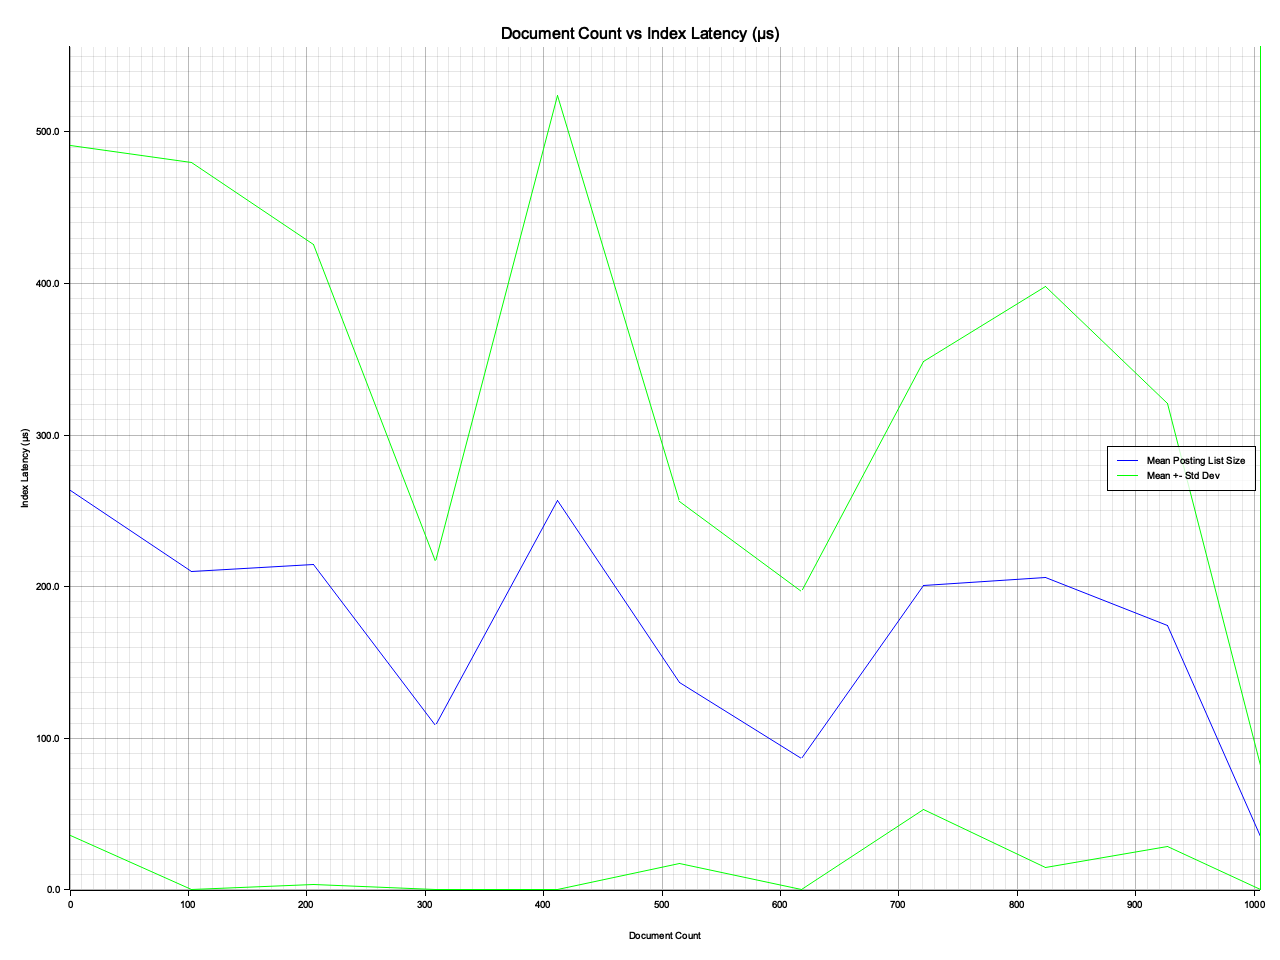
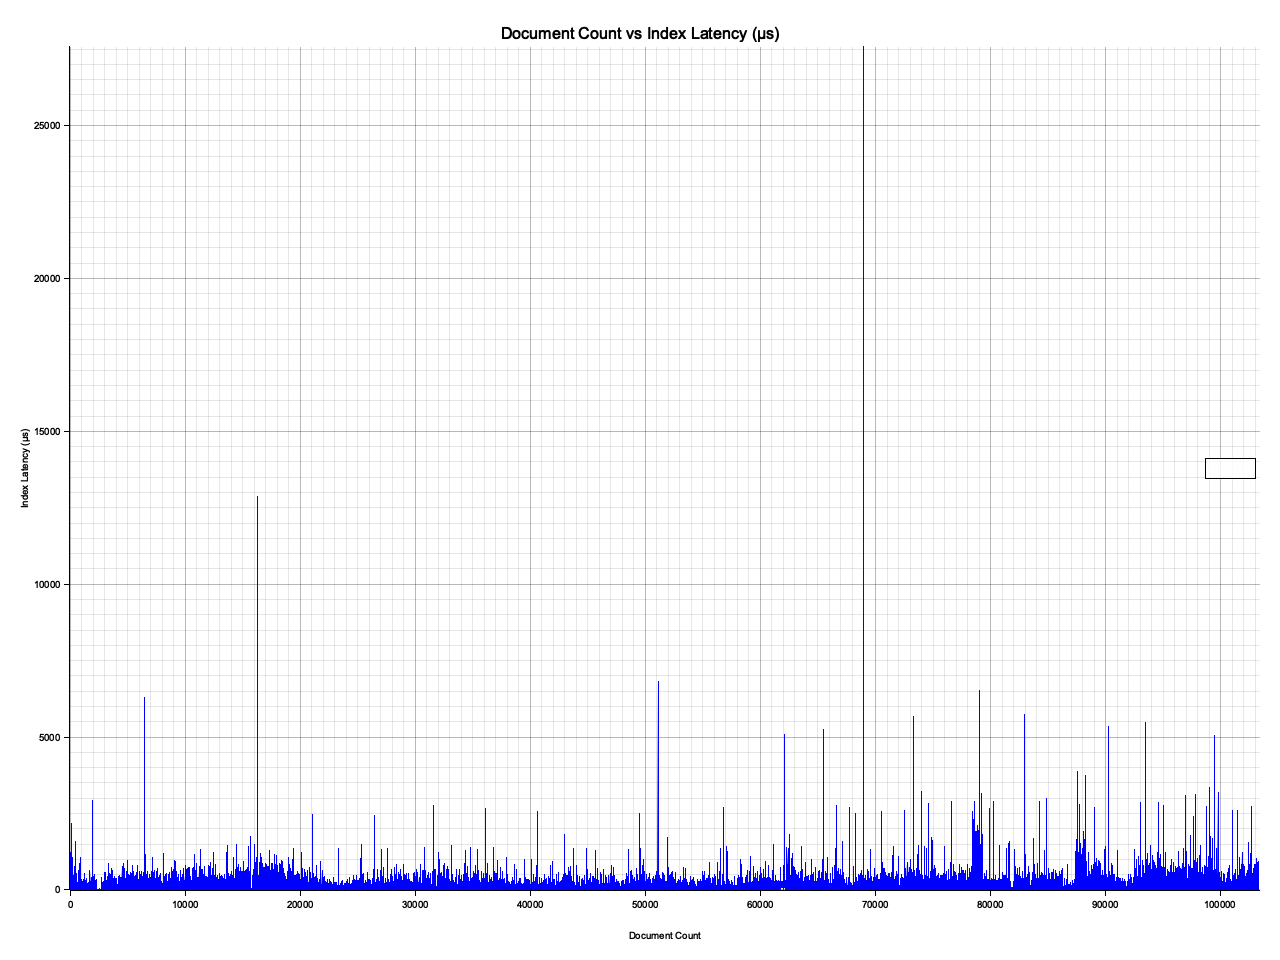
posting list distribution plot

Changed region(s): [[0.0312, 0.0625, 1.0, 0.9688], [0.0312, 0.4375, 0.0625, 0.4688]]

diff --git a/src/plot.rs b/src/plot.rs
@@ -18,61 +18,18 @@ pub fn plot_index_latency(target_dir: &str) -> Result<(), Box<dyn Error>> {
         all_data.push((document_count, indexing_duration));
     }
 
-    if all_data.len() > 10_000 {
-        let (means, uppers, lowers, max_indexing_duration) = group_and_process_data(&all_data, 1000); // Adjust the number of groups here
-        plot_line_with_std_dev(
-            &means,
-            &uppers,
-            &lowers,
-            &output_path,
-            means.len() as i32,
-            max_indexing_duration as f64,
-            "Document Count vs Index Latency (µs)",
-            "Document Count",
-            "Index Latency (µs)",
-        )?;
-    } else {
-        let max_indexing_duration = all_data.iter().map(|&(_, y)| y).max().unwrap_or_default();
-        plot_documents_to_latency_chart(
-            all_data.clone(),
-            &output_path,
-            all_data.len() as i32,
-            max_indexing_duration,
-            "Document Count vs Index Latency (µs)",
-            "Document Count",
-            "Index Latency (µs)",
-        )?;
-    }
+    let max_indexing_duration = all_data.iter().map(|&(_, y)| y).max().unwrap_or_default();
+    plot_documents_to_latency_chart(
+        all_data.clone(),
+        &output_path,
+        all_data.len() as i32,
+        max_indexing_duration,
+        "Document Count vs Index Latency (µs)",
+        "Document Count",
+        "Index Latency (µs)",
+    )?;
 
     Ok(())
-}
-
-fn group_and_process_data(data: &Vec<(i32, u128)>, num_groups: usize)
-    -> (Vec<(i32, f64)>, Vec<(i32, f64)>, Vec<(i32, f64)>, u128) {
-
-    let group_size = data.len() / num_groups;
-    let mut mean_data = Vec::new();
-    let mut std_dev_upper_data = Vec::new();
-    let mut std_dev_lower_data = Vec::new();
-    let mut max_indexing_duration = 0u128;
-
-    for chunk in data.chunks(group_size) {
-        let (sum, sum_squares, count) = chunk.iter().fold((0u128, 0u128, 0usize), |(sum, sum_squares, count), &(_, duration)| {
-            (sum + duration, sum_squares + duration.pow(2), count + 1)
-        });
-
-        let mean = sum as f64 / count as f64;
-        let std_dev = ((sum_squares as f64 / count as f64) - (mean.powi(2))).sqrt();
-        let document_count = chunk.first().unwrap().0;
-        
-        mean_data.push((document_count, mean));
-        std_dev_upper_data.push((document_count, mean + std_dev));
-        // Ensure that the lower bound of standard deviation is not less than 0
-        std_dev_lower_data.push((document_count, (mean - std_dev).max(0.0)));
-        max_indexing_duration = max_indexing_duration.max(sum / count as u128);
-    }
-
-    (mean_data, std_dev_upper_data, std_dev_lower_data, max_indexing_duration)
 }
 
 pub fn plot_query_latency(target_dir: &str) -> Result<(), Box<dyn Error>> {

diff --git a/src/main.rs b/src/main.rs
@@ -89,6 +89,11 @@ fn main() {
             .arg(Arg::with_name("Target Directory")
                 .help("The target directory to read benchmark results and write the plot")
                 .required(true)))
+        .subcommand(SubCommand::with_name("plot_posting_list_distribution")
+            .about("Plots the distribution of posting list sizes")
+            .arg(Arg::with_name("Target Directory")
+                .help("The target directory to read benchmark results and write the plot")
+                .required(true)))
         .subcommand(SubCommand::with_name("plot_top_n_queries")
             .about("Plots the top N most expensive queries")
             .arg(Arg::with_name("Target Directory")
@@ -160,6 +165,14 @@ fn main() {
             let target_directory = sub_m.value_of("Target Directory").unwrap();
 
             match plot_query_latency(target_directory) {
+                Ok(_) => println!("Plot completed successfully"),
+                Err(e) => println!("Plot failed: {}", e),
+            }
+        },
+        ("plot_posting_list_distribution", Some(sub_m)) => {
+            let target_directory = sub_m.value_of("Target Directory").unwrap();
+
+            match plot::plot_posting_list_distribution(target_directory) {
                 Ok(_) => println!("Plot completed successfully"),
                 Err(e) => println!("Plot failed: {}", e),
             }
